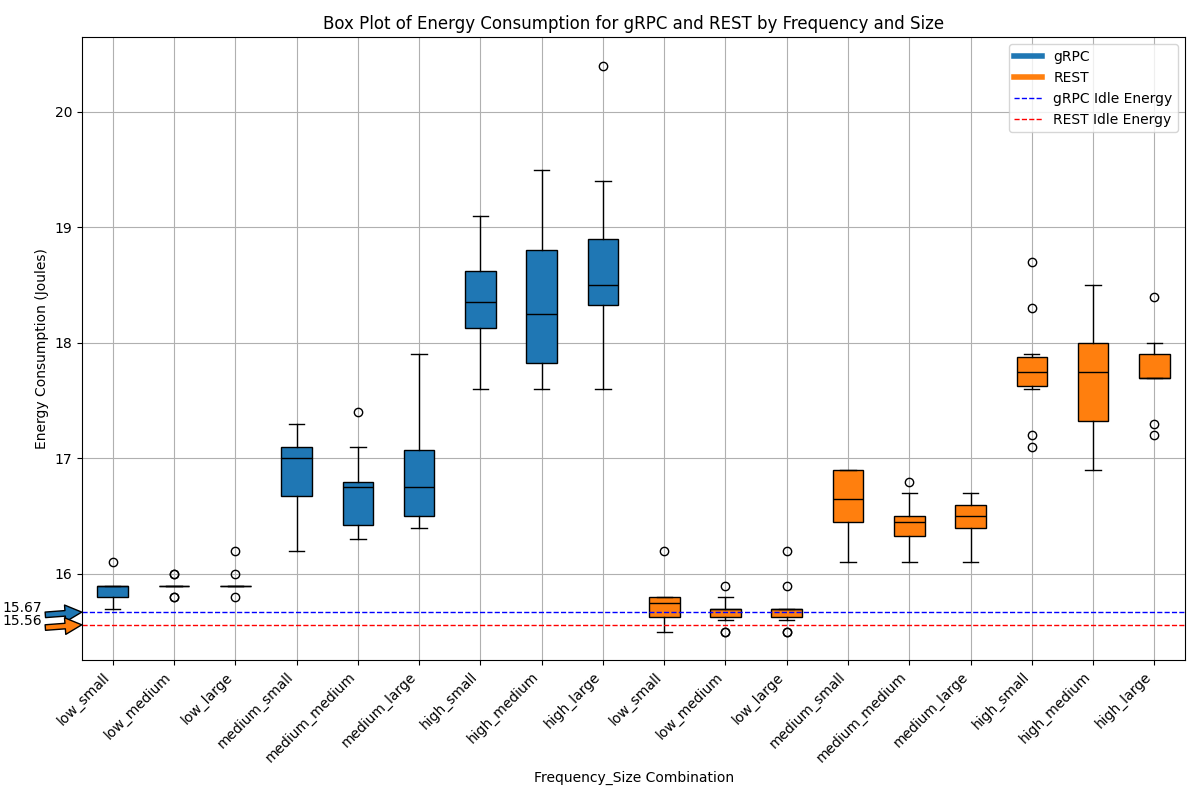
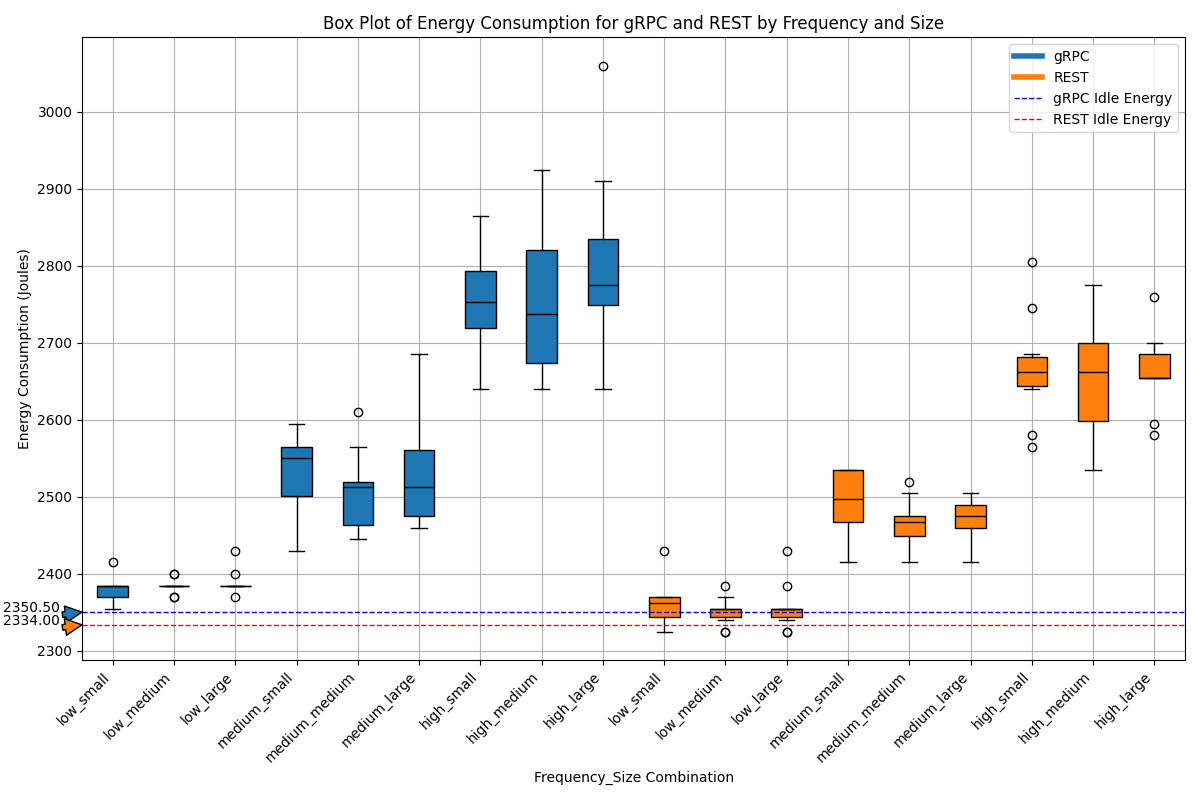
update boxplot for energy

diff --git a/microservice-kubernetes-demo/data_analysis/barchart_overall.py b/microservice-kubernetes-demo/data_analysis/barchart_overall.py
@@ -126,9 +126,9 @@ plt.show()
 
 # Adjusting the colors of the box plots for energy consumption to use original colors and setting median lines to black
 fig, ax = plt.subplots(figsize=(12, 8))
-data_energy_combined = [data[(data['Frequency'] == freq) & (data['Size'] == size)]['Power']
+data_energy_combined = [data[(data['Frequency'] == freq) & (data['Size'] == size)]['Power'] * 150
                         for freq in range(3) for size in range(3)]
-data_energy_rest_combined = [data_rest[(data_rest['Frequency'] == freq) & (data_rest['Size'] == size)]['Power']
+data_energy_rest_combined = [data_rest[(data_rest['Frequency'] == freq) & (data_rest['Size'] == size)]['Power'] * 150
                              for freq in range(3) for size in range(3)]
 bp = ax.boxplot(data_energy_combined + data_energy_rest_combined, patch_artist=True)
 colors = [grpc_color_original] * 9 + [rest_color_original] * 9
@@ -137,8 +137,8 @@ for patch, color in zip(bp['boxes'], colors):
 for median in bp['medians']:
     median.set_color('black')
 
-ax.axhline(y=15.67, color='blue', linestyle='--', linewidth=1, label='gRPC Idle Energy')
-ax.axhline(y=15.56, color='red', linestyle='--', linewidth=1, label='REST Idle Energy')
+ax.axhline(y=15.67 * 150, color='blue', linestyle='--', linewidth=1, label='gRPC Idle Energy')
+ax.axhline(y=15.56 * 150, color='red', linestyle='--', linewidth=1, label='REST Idle Energy')
 ax.set_xlabel('Frequency_Size Combination')
 ax.set_ylabel('Energy Consumption (Joules)')
 ax.set_xticks(range(1, 19))
@@ -153,9 +153,9 @@ labels = ['gRPC', 'REST', 'gRPC Idle Energy', 'REST Idle Energy']
 ax.legend(handles, labels)
 
 # Annotate idle lines
-ax.annotate('15.67', xy=(0.5, 15.67), xytext=(-0.8, 15.67), textcoords='data',
+ax.annotate('2350.50', xy=(0.5, 15.67 * 150), xytext=(-0.8, 15.67 * 150), textcoords='data',
             arrowprops=dict(facecolor='#1f77b4', shrink=0.01))
-ax.annotate('15.56', xy=(0.5, 15.56), xytext=(-0.8, 15.56), textcoords='data',
+ax.annotate('2334.00', xy=(0.5, 15.56 * 150), xytext=(-0.8, 15.56 * 150), textcoords='data',
             arrowprops=dict(facecolor='#ff7f0e', shrink=0.01))
 
 plt.xticks(rotation=45)
